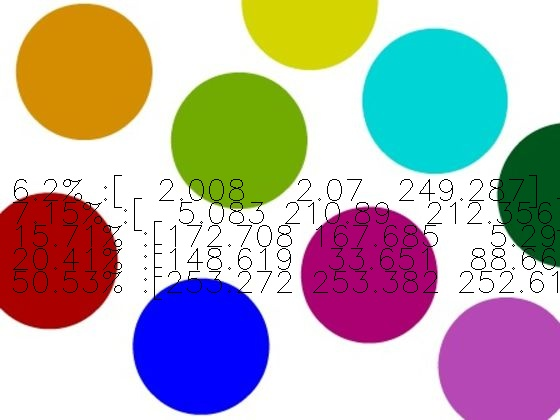
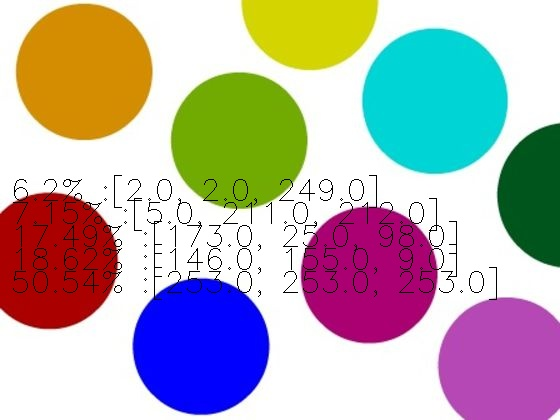
Update documentation with misc info
Update changes file to give more details.

diff --git a/docs/conf.py b/docs/conf.py
@@ -15,7 +15,8 @@ import sys
 from datetime import date
 
 file_loc = os.path.split(__file__)[0]
-sys.path.insert(0, os.path.abspath(os.path.join(os.path.dirname(file_loc), ".")))
+sys.path.insert(0, os.path.abspath(
+    os.path.join(os.path.dirname(file_loc), ".")))
 
 from colordetect import ColorDetect
 
@@ -37,6 +38,7 @@ extensions = [
     'sphinx.ext.autodoc',  # grab documentation from docstrings
     'sphinx.ext.doctest',
     'sphinx.ext.viewcode',  # package rst sources with docs
+    'sphinx.ext.intersphinx',
 ]
 
 # Add any paths that contain templates here, relative to this directory.

diff --git a/docs/colordetect.rst b/docs/colordetect.rst
@@ -8,9 +8,9 @@ Getting started
 
 Installation
 ------------
-From pypy::
+.. code-block:: bash
 
-    pip install ColorDetect
+    $ pip install ColorDetect
 
 For usage , import as::
 
@@ -19,7 +19,7 @@ For usage , import as::
 
 
 Examples
-========
+--------
 
 As a walk through some of the capabilities of ColorDetect we will use
 this sample image.
@@ -33,10 +33,16 @@ this sample image.
     >>>
     >>> my_image = ColorDetect("<image_path>")
     >>> my_image.get_color_count()
-    {6.2: array([  2.008,   2.07 , 249.287]), 7.15: array([  5.083, 210.89 , 212.356]), 15.71: array([172.708, 167.685,   5.291]), 20.41: array([148.619,  33.651,  88.661]), 50.53: array([253.272, 253.382, 252.612])}
+    {6.2: [2.0, 2.0, 249.0], 7.15: [5.0, 211.0, 212.0], 17.49: [173.0, 25.0, 98.0], 18.62: [146.0, 155.0, 9.0], 50.54: [253.0, 253.0, 253.0]}
 
-A dictionary, with the RGB value of the color as the key and its percentage occurrence in the image
-as the value is returned.
+A dictionary, with the RGB value of the color as the value and its percentage occurrence in the image
+as the key is returned.
+
+For clarification::
+
+    6.2: [2.0, 2.0, 249.0]
+    # this key value pair would imply 6.2 % of the image, has an RGB of [2.0, 2.0, 249.0]
+
 
 Now suppose you want to take it a step further and write the result to the image itself.
 
@@ -57,22 +63,4 @@ Depending on the size of the image, you might want to decide whether
 to write the count to the image or not. As observed, a smaller image gives
 a crowded appearance.
 
-
-Developer Notes
-===============
-
-Here, we dive into ColorDetect's inner definitions and working.
-Found a bug or feature request you would like to address? Take a look at the  `Contribution guidelines <https://github.com/MarvinKweyu/ColorDetect/blob/master/CONTRIBUTING.md>`_
-and feel free to submit a pull. The project source is hosted on `Github <https://github.com/MarvinKweyu/ColorDetect/>`_
-
-.. automodule:: colordetect.color_detect
-   :members:
-   :undoc-members:
-   :show-inheritance:
-
-
-.. automodule:: colordetect
-   :members:
-   :undoc-members:
-   :show-inheritance:
 

diff --git a/CHANGES.rst b/CHANGES.rst
@@ -1,0 +1,71 @@
+
+=====================
+ColorDetect Changelog
+=====================
+
+0.1.4 (5-04-2020)
+==================
+
+Features
+--------
+
+- Allow recognition of non pre-defined color sets
+- Allow a plain dictionary to be obtained with color recognition
+  from the image before writing onto it.
+- Format display of percentage and RGB values
+
+Bugfixes
+--------
+
+- Update CI config file with correct requirements path.
+- Correct test running instructions on README.
+
+
+
+Improved Documentation
+----------------------
+
+- Publish package documentation 
+  `ColorDetect <https://colordetect.readthedocs.io/en/latest/>`_
+
+Misc
+----
+
+- Add versioning to readme and edit dev requirements.
+
+
+----
+
+
+0.1.3 (22-03-2020)
+==================
+
+Features
+--------
+- Change image reading from command-line
+  to ColorDetect object initialization.
+
+Bug fixes
+---------
+
+- Fix image reading. 
+
+Misc
+----
+
+- Split dev and base requirements.
+
+
+----
+
+0.1.2 (22-03-2020)
+==================
+Features
+--------
+- Include project license
+
+----
+
+0.1.1 (22-03-2020)
+==================
+- Initial release

diff --git a/docs/developer_notes.rst b/docs/developer_notes.rst
@@ -1,0 +1,18 @@
+Developer Notes
+===============
+
+Here, we dive into ColorDetect's inner definitions and working.
+Found a bug or feature request you would like to address? Take a look at the  `Contribution guidelines <https://github.com/MarvinKweyu/ColorDetect/blob/master/CONTRIBUTING.md>`_
+and feel free to submit a pull. The project source is hosted on `Github <https://github.com/MarvinKweyu/ColorDetect/>`_
+
+.. automodule:: colordetect.color_detect
+   :members:
+   :undoc-members:
+   :show-inheritance:
+
+
+.. automodule:: colordetect
+   :members:
+   :undoc-members:
+   :show-inheritance:
+

diff --git a/docs/misc.rst b/docs/misc.rst
@@ -1,0 +1,22 @@
+
+Miscellaneous
+=============
+
+Helpful pages.
+
+.. toctree::
+   :name: misc
+
+   
+.. toctree::
+   :titlesonly:
+   
+   developer_notes
+   changes
+
+Indices and tables
+------------------
+
+* :ref:`genindex`
+* :ref:`modindex`
+* :ref:`search`

diff --git a/docs/index.rst b/docs/index.rst
@@ -11,6 +11,7 @@ Welcome to ColorDetect's documentation!
    :caption: Contents:
 
    colordetect.rst
+   misc
 
 
 

diff --git a/docs/changes.rst b/docs/changes.rst
@@ -1,0 +1,1 @@
+.. include:: ../CHANGES.rst
